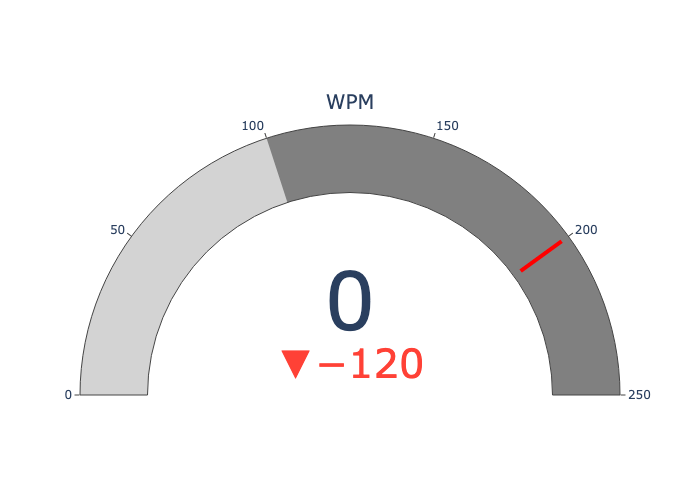
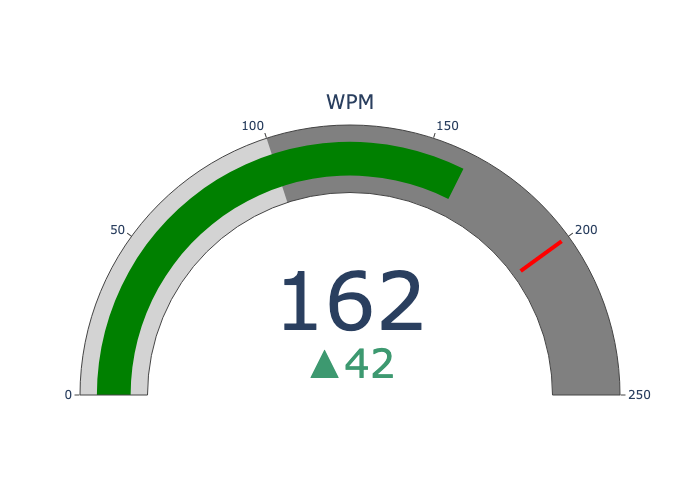
Doneee

diff --git a/templates/feedback.html b/templates/feedback.html
@@ -66,23 +66,24 @@
 
                 <div class="feedback-response-inner">
                     <h3>Sentiment Analysis</h3>
-                    <img src="{{ url_for('static', filename='feedbackImages/sentiment.png' ) }}" alt="">
-                    <!-- <div class="response">
-                        <p>Q. Where do you see yourself in 5 years?</p>
-                        <br>
-                        <p>My name is John Doe. I am a Mechanical Engineering final year student at Purdue University.
-                            During my time in the program, I developed an interest in various mechanical systems,
-                            machine design, and thermodynamics. I have completed an internship at Tata Consultancy
-                            Services, where I was exposed to industrial design processes and got hands-on experience in
-                            CAD software such as Solidworks and Autocad. I am passionate about problem-solving and enjoy
-                            applying my knowledge to real-world scenarios. After graduation, I aspire to work in the
-                            research and development field of advanced manufacturing and automation; and use my
-                            knowledge and skills to make an impact in the industry and help companies improve their
-                            production processes. I also love Robotics, and I have participated in several competitions
-                            and have won a few of them.</p>
-                    </div> -->
+                    <img src="{{ url_for('static', filename='feedbackImages/sentiment.png' ) }}"
+                        alt="sentiment_analysis">
+                </div>
+                <div class="feedback-response-inner">
+                    <h3>Pace Analysis</h3>
+                    <img src="{{ url_for('static', filename='feedbackImages/pace.png' ) }}" alt="pace_analysis">
                 </div>
             </div>
+            <div class="feedback-response-inner">
+                <div class="feedback-response-inner">
+                    <h3>Sentence Analysis</h3>
+                    {{ responseData["svg_element"]|safe}}
+
+                </div>
+            </div>
+            <br>
+            <br>
+            <br>
         </div>
     </body>
 

diff --git a/app.py b/app.py
@@ -1,5 +1,14 @@
 import os
-from flask import Flask, render_template, request, url_for, redirect, session, flash
+from flask import (
+    Flask,
+    render_template,
+    request,
+    url_for,
+    redirect,
+    session,
+    flash,
+    send_file,
+)
 import re
 import mysql.connector
 from flask import request
@@ -12,6 +21,7 @@ import nlp
 import json
 from datetime import datetime
 import speech_text, feedback_analysis
+from markupsafe import Markup
 
 app = Flask(__name__)
 
@@ -84,7 +94,8 @@ def practice():
 @app.route("/record/<int:questionID>", methods=["GET", "POST"])
 def recordQuestion(questionID):
     if request.method == "POST" and request.form.get("Record") == "Record":
-        global transcript, sentiment_analyis
+        global transcript
+        global sentiment_analyis
         r = sr1.Recognizer()
 
         samplerate = 44100  # Hertz
@@ -104,7 +115,6 @@ def recordQuestion(questionID):
         t, s = speech_text.save_transcript(
             audio_url, "file_title", sentiment_analysis=True
         )
-        print(s)
         transcript = t
         sentiment_analyis = s
         print(nlp.entity_analysis_q1(t))
@@ -152,23 +162,32 @@ def feedbackData(getResponseFromJson):
     k = open("responses.json")
     responseData = json.load(k)
 
-    print(questionData)
-    print(getResponseFromJson)
-    print(responseData[getResponseFromJson])
+    # print(questionData)
+    # print(getResponseFromJson)
+    # print(responseData[getResponseFromJson])
 
     new_response_json_string = responseData[getResponseFromJson]
+
+    print(sentiment_analyis)
+    print(new_response_json_string["response_text"])
 
     feedback_analysis.sentiment_find(sentiment_analyis)
 
     if new_response_json_string["questionID"] == 1:
-        feedback_analysis.entity_highlight_q1(transcript)
+        feedback_analysis.entity_highlight_q1(new_response_json_string["response_text"])
     elif new_response_json_string["questionID"] == 2:
-        feedback_analysis.entity_highlight_q2(transcript)
+        feedback_analysis.entity_highlight_q2(new_response_json_string["response_text"])
     else:
-        feedback_analysis.entity_highlight_q3(transcript)
+        feedback_analysis.entity_highlight_q3(new_response_json_string["response_text"])
 
-    feedback_analysis.pace(transcript)
+    feedback_analysis.pace(new_response_json_string["response_text"])
     # print(pace_result, pace)
+
+    str1 = ""
+    with open("static/feedbackImages/sentence.svg") as file:
+        for item in file:
+            str1 += item
+            # print(item)
 
     userResponseFeedback = {
         "username": userData["username"],
@@ -177,9 +196,16 @@ def feedbackData(getResponseFromJson):
         "feedback": new_response_json_string["feedback"],
         "date": new_response_json_string["date"],
         "time": new_response_json_string["time"],
+        "svg_element": str1,
     }
 
     return render_template("feedback.html", responseData=userResponseFeedback)
+
+
+# @app.route("/sentence_analysis_image")
+# def sentence_analysis_image():
+#     filename = "static/feedbackImages/sentence.svg"
+#     return send_file(filename, mimetype="image/svg+xml")
 
 
 @app.route("/logout")

diff --git a/feedback_analysis.py b/feedback_analysis.py
@@ -7,10 +7,13 @@ import os
 import numpy as np
 import matplotlib.pyplot as plt
 import plotly.graph_objects as go
+from cairosvg import svg2png
 
 filename = "output.wav"
 # audio_url = speech_text.upload(filename)
-# s, t = speech_text.save_transcript(audio_url, "file_title", sentiment_analysis=True)
+# speech_transcript, sentiment = speech_text.save_transcript(
+#     audio_url, "file_title", sentiment_analysis=True
+# )
 
 
 def sentiment_find(t):
@@ -144,5 +147,5 @@ def pace(speech_transcript):
 
 
 # stutter_find = nlp.detect_stutter(filename)
-# entity_highlight_q2(s)
+# entity_highlight_q1(speech_transcript)
 # sentiment_find(t)

diff --git a/database.py b/database.py
@@ -281,7 +281,11 @@ def fetch_current_user_responses():
 
     new_json = {}
     print(data["userID"])
-    sql_fetch_query = "select * from responses where userID = " + str(data["userID"])
+    sql_fetch_query = (
+        "select * from responses where userID = "
+        + str(data["userID"])
+        + " order by date desc, time desc;"
+    )
     cursor.execute(sql_fetch_query)
     userRecords = cursor.fetchall()
     new_json[0] = len(userRecords)
